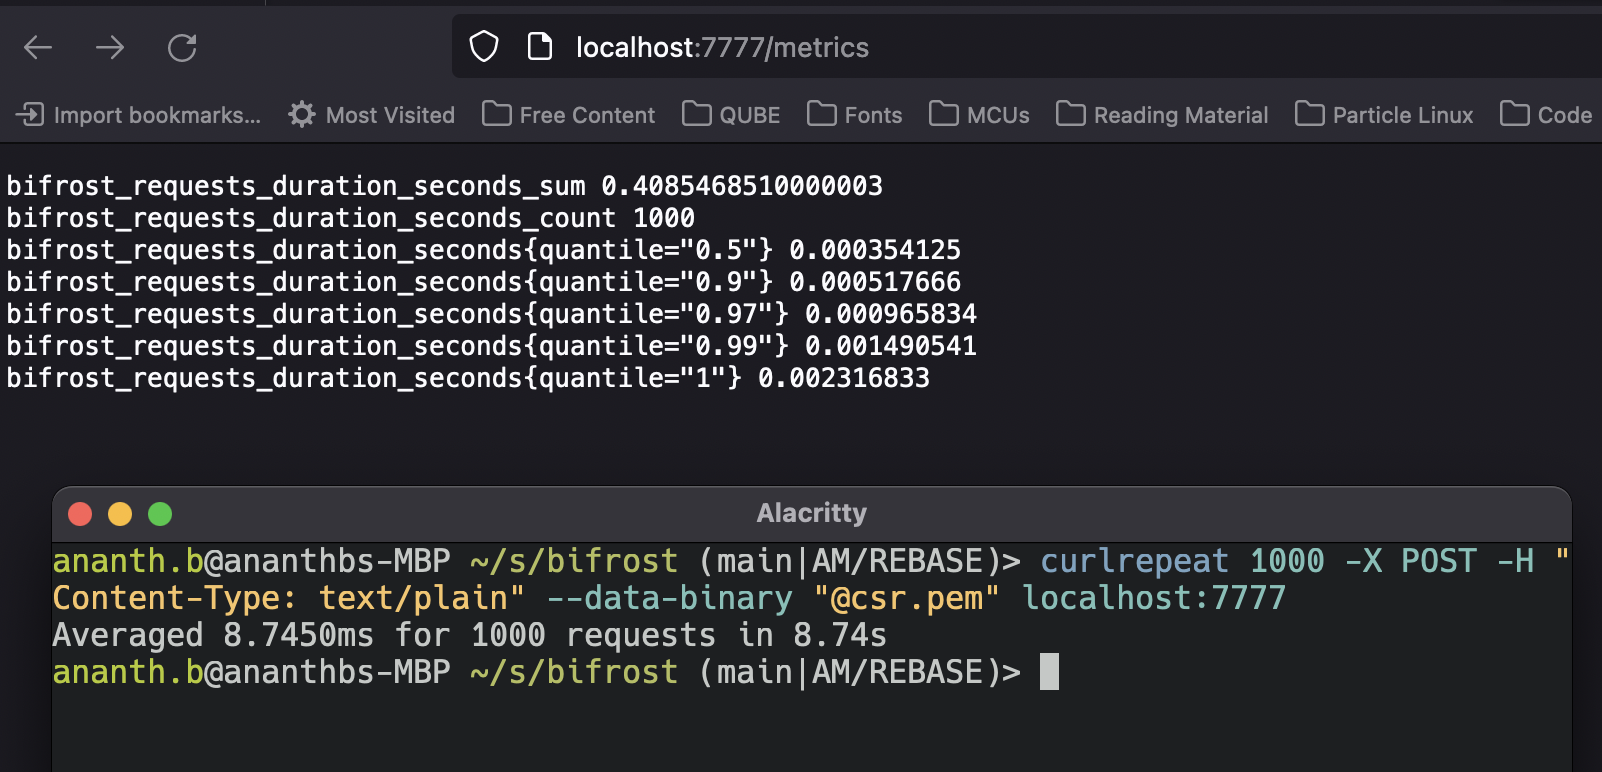
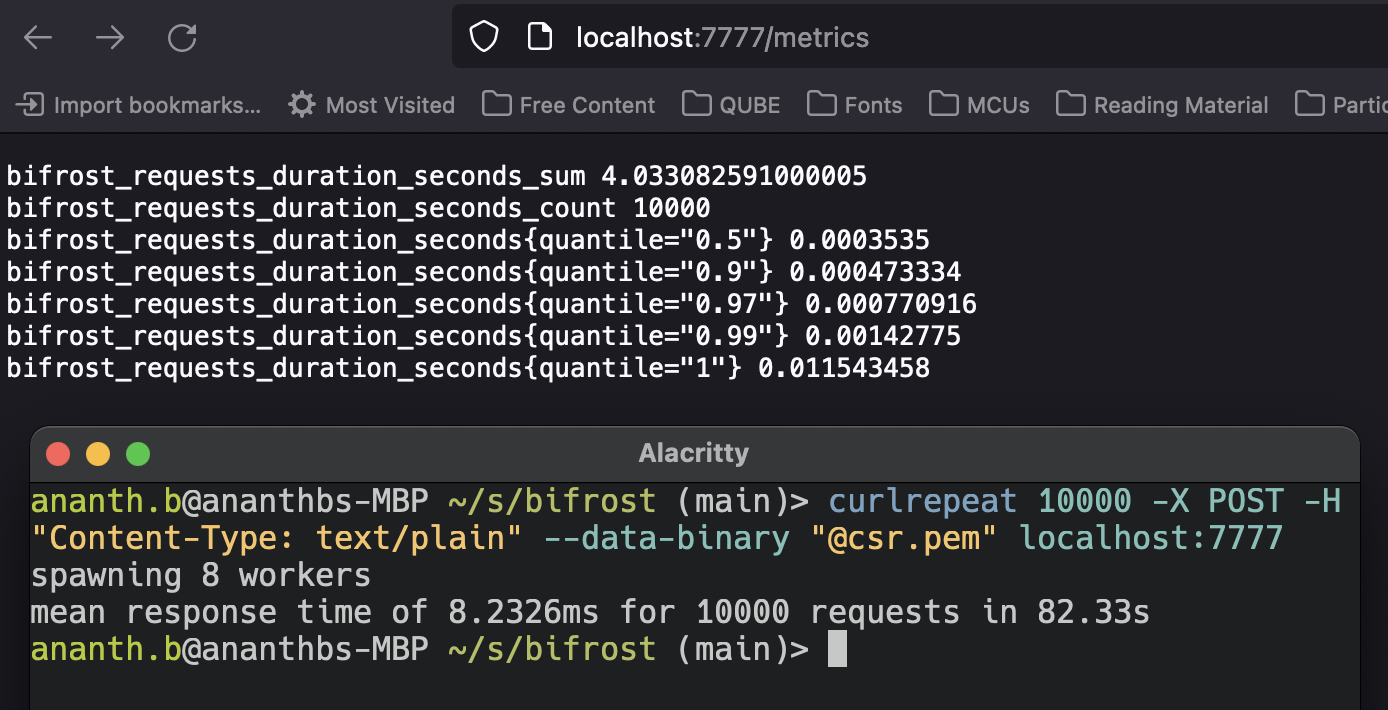
Clean benchmark image.

diff --git a/README.md b/README.md
@@ -174,6 +174,7 @@ A toy benchmark for your favourite toy CA.
 
 ![my-first-benchmark.jpg](docs/my-first-benchmark.jpg)
 
-`issuer` issued a thousand certificates on my Macbook Pro M1 Pro in 8s.
+`issuer` issued 10,000 certificates on my Macbook Pro M1 Pro in ~82s.
+The slowest request completed in 115ms.
 With a mean response time of 8ms this is objectively the fastest CA on the planet.
 Statisticians hate this one weird trick.
